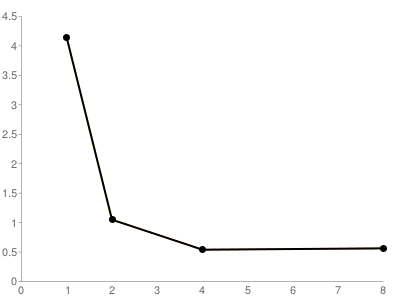
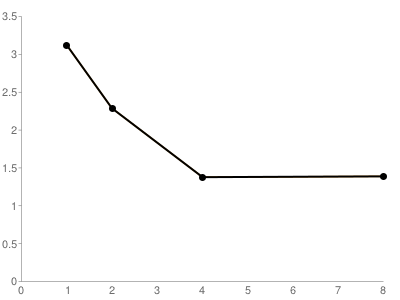
Rewrite report with latest numbers

diff --git a/report.tex b/report.tex
@@ -25,71 +25,26 @@ We ran \texttt{nbody -s 1352723313 -nt \$NTHREADS} for \texttt{\$NTHREADS = 1,
 2, 4, 8}. For the most part we see the speedup that we expect from using more
 threads:
 
-\begin{tabular}{c l}
+\begin{center}\begin{tabular}{c l}
 Thread Count & Time (s) \\
 \hline{}
-1 & 4.138442 \\
-2 & 1.048486 \\
-4 & 0.539792 \\
+1 & 3.121816 \\
+2 & 2.286314 \\
+4 & 1.377848 \\
+8 & 1.388689
 \end{tabular}
 
-For eight cores, we saw some unusual behavior. For most runs, we observed a
-slight decrease in performance with the correct results:
+% http://chart.apis.google.com/chart?cht=lxy&chs=400x300&chma=16,16,16,16&chxt=x,y&chxr=0,0,8|1,0,3.5,0.5&chds=0,8,0,3.5&chm=D,000000,0,0,2|o,000000,0,,7&chd=t:1,2,4,8|3.121816,2.286314,1.377848,1.388689
+\includegraphics[width=3in]{a2_sec1_1.png}
+\end{center}
 
-\begin{tabular}{l l l l l l l l}
-0.559210 & 0.553203 & 0.573746 & 0.564950 &
-0.581025 & 0.562103 & 0.562194 & 0.545826
-\end{tabular}
-
-But for some runs, particularly immediately consecutive runs, we saw that not
-only did the performance decrease, but the integrity of the results was also
-compromised:
-
-\begin{verbatim}
-###### 4 threads 
-
-dt: 0.0005
-Simulation box size: 0.715542
-Random seed is 1352723313
-# particles : 1024
-Using static BLOCK decomposition
-Nsteps: 1000
-
-n = 1024, nsteps = 1000
-(u,vMax) = ( 9.99816007e-01, 9.97788041e-01 )
-(u,vL2 ) = ( 5.74424367e-01, 5.76119911e-01 )
-Running time = 5.39792000e-01 sec.
-
-###### 8 threads 
-
-dt: 0.0005
-Simulation box size: 0.715542
-Random seed is 1352723313
-# particles : 1024
-Using static BLOCK decomposition
-Nsteps: 1000
-
-n = 1024, nsteps = 1000
-(u,vMax) = ( 3.49390795e+03, 1.23453369e+04 )
-(u,vL2 ) = ( 1.09315048e+02, 3.85857235e+02 )
-Running time = 5.44501000e-01 sec.
-\end{verbatim}
-
-\includegraphics[width=0.3in]{a2_sec1_1.png}
-
-We get a similar result when we use the \texttt{-b} flag for irregular
-particle distribution (\texttt{nbody -b -s 1352723313 -nt \$NTHREADS}):
-
-\begin{tabular}{c l}
-Thread count & Time (s) \\
-\hline{}
-1 & 3.120088 \\
-2 & \textcolor{red}{segmentation fault} \\ % FIXME!
-4 & 0.175171 \\
-8 & 0.351271
-\end{tabular}
-
-\includegraphics[width=0.3in]{a2_sec1_2.png}
+When we run the same study with irregular particle distribution, we find no
+effect on the running times subject to the precision of the timing logic. We
+think that this is because the load imbalancer, which prevents the first $1/4$
+of particles \textit{in memory} from moving, ends up making the processor
+responsible for doing the stopped particles perform \textit{less} work than
+the other processors, so that the time is determined by the other processors
+due to the use of barriers to enforce sequential operation.
 
 \section{Chunk-scheduled scaling}
 
@@ -99,47 +54,46 @@ to the number of particles, the load becomes imbalanced because only the first
 few threads receive chunks to work on, causing a decrease in performance to a
 level comparable to block partitioning with one thread.
 
-\textit{Note: this was taken with load imbalancing removed. Maybe we should
-get this data again?}
-
-\begin{tabular}{c l}
+\begin{center}\begin{tabular}{c l}
 Chunk size & Time (s) \\
 \hline{}
-  1 & 1.561923 \\
-  2 & 1.433125 \\
-  4 & 1.672107 \\
-  8 & 1.546027 \\
- 16 & 1.402706 \\
- 32 & 1.482828 \\
- 64 & 1.540522 \\
-128 & 1.711720 \\
-256 & 2.115562 \\
-512 & 3.067487
+  1 & 1.268889 \\
+  2 & 1.144190 \\
+  4 & 1.185820 \\
+  8 & 1.160155 \\
+ 16 & 1.327447 \\
+ 32 & 1.249977 \\
+ 64 & 1.249480 \\
+128 & 1.308981 \\
+256 & 1.784157 \\
+512 & 2.799230
 \end{tabular}
 
-% http://chart.apis.google.com/chart?cht=lxy&chs=400x300&chma=16,16,16,16&chxt=x,y&chxr=0,0,9|1,0,3.5,0.5&chds=0,9,0,3.5&chd=t:0,1,2,3,4,5,6,7,8,9|1.561923,1.433125,1.672107,1.546027,1.402706,1.482828,1.540522,1.71172,2.115562,3.067487&chm=D,000000,0,0,2|o,000000,0,,5&chxl=0:|1|2|4|8|16|32|64|128|256|512
-\includegraphics[width=0.3in]{a2_sec2_1.png}
+% http://chart.apis.google.com/chart?cht=lc&chs=400x300&chma=16,16,16,16&chxt=x,y&chxr=0,0,9|1,0,3&chds=0,3&chm=D,000000,0,0,2|o,000000,0,,7&chxl=0:|1|2|4|8|16|32|64|128|256|512&chd=t:1.268889,1.14419,1.18582,1.160155,1.327447,1.249977,1.249480,1.308981,1.784157,2.79923
+\includegraphics[width=3in]{a2_sec2_1.png}
+\end{center}
 
 A similar effect appears without load imbalancing.
 
-\begin{tabular}{c l}
+\begin{center}\begin{tabular}{c l}
 Chunk size & Time (s) \\
 \hline{}
-   1 & 1.702923 \\
-   2 & 1.609537 \\
-   4 & 1.602867 \\
-   8 & 1.522705 \\
-  16 & 1.568501 \\
-  32 & 1.628063 \\
-  64 & 1.669489 \\
- 128 & 1.643170 \\
- 256 & 2.191104 \\
- 512 & 3.044322 \\
-1024 & 5.023962
+   1 & 1.493572 \\
+   2 & 1.449901 \\
+   4 & 1.285738 \\
+   8 & 1.439543 \\
+  16 & 1.566758 \\
+  32 & 1.327371 \\
+  64 & 1.376504 \\
+ 128 & 1.339076 \\
+ 256 & 1.838099 \\
+ 512 & 2.804073 \\
+1024 & 4.773173
 \end{tabular}
 
-% http://chart.apis.google.com/chart?cht=lxy&chs=400x300&chma=16,16,16,16&chxt=x,y&chxr=0,0,10|1,0,6&chds=0,10,0,6&chd=t:0,1,2,3,4,5,6,7,8,9,10|1.702923,1.609537,1.602867,1.522705,1.568501,1.628063,1.669489,1.64317,2.191104,3.044322,5.023962&chm=D,000000,0,0,2|o,000000,0,,5&chxl=0:|1|2|4|8|16|32|64|128|256|512|1024
-\includegraphics[width=0.3]{a2_sec2_2.png}
+% http://chart.apis.google.com/chart?cht=lc&chs=400x300&chma=16,16,16,16&chxt=x,y&chxr=0,0,10|1,0,5&chds=0,5&chm=D,000000,0,0,2|o,000000,0,,7&chxl=0:|1|2|4|8|16|32|64|128|256|512|1024&chd=t:1.493572,1.449901,1.285738,1.439543,1.566758,1.327371,1.376504,1.339076,1.838099,2.804073,4.773173
+\includegraphics[width=3in]{a2_sec2_2.png}
+\end{center}
 
 \section{Comparison of block and chunk partitioning}
 
@@ -150,16 +104,21 @@ more evenly distribute small blocks of work among workers, so that the speedup
 is comparable to the speedup that we get from just throwing more processors at
 the problem.
 
+\begin{center}
 \begin{tabular}{c l l}
 Thread count & Block time (s) & Chunk=4 time (s) \\
 \hline{}
-1 & 4.162895 & 4.175521 \\
-2 & 2.362130 & 2.401542 \\
-4 & 1.576841 & 1.557133 \\
-8 & 1.592611 & 1.588439
+1 & 4.153872 & 4.167199 \\
+2 & 2.315583 & 2.358403 \\
+4 & 1.454456 & 1.433370 \\
+8 & 1.437606 & 1.278942
 \end{tabular}
 
-We disabled load imbalancing, so we could not take measurements for it.
+% http://chart.googleapis.com/chart?cht=lxy&chs=400x300&chma=16,16,16,16&chxt=x,y&chxr=0,0,8|1,0,4.5&chds=0,8,0,4.5,0,8,0,4.5&chm=o,000000,0,,7|o,000000,1,,7&chls=2|2,5,5&chco=000000&chd=t:1,2,4,8|4.153872,2.315583,1.454456,1.437606|1,2,4,8|4.167199,2.358403,1.433370,1.278942
+\includegraphics[width=3in]{a2_sec3_1.png}
+\end{center}
+
+Dotted line represents chunk partitioning with chunk size of 4.
 
 \section{Performance bottlenecks}
 
